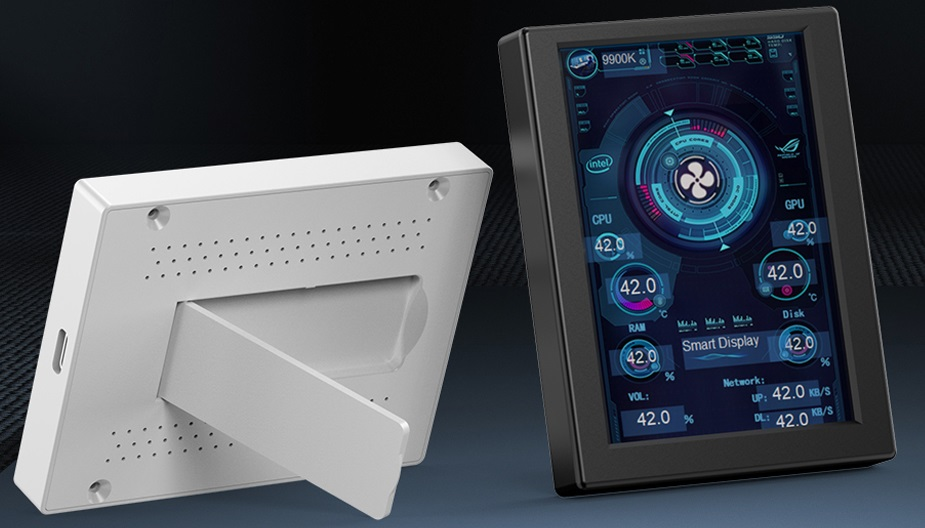
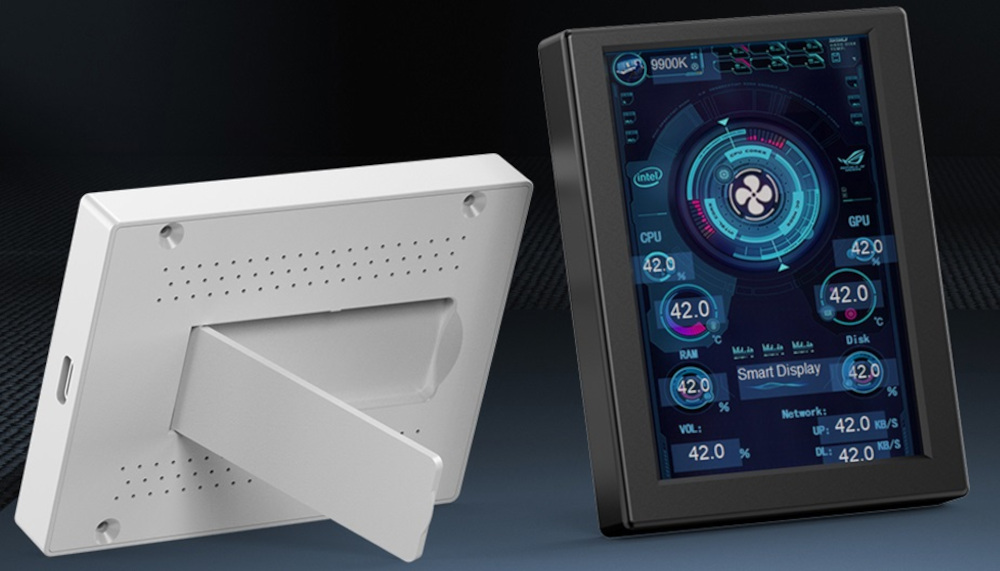
Fix README picture ratio

diff --git a/README.md b/README.md
@@ -18,10 +18,10 @@ Supported operating systems : macOS, Windows, Linux (incl. Raspberry Pi), basica
 
 ### Supported smart screens models:
 
-| Turing Smart Screen 3.5"                             | XuanFang 3.5"                                     | Turing Smart Screen 5"                              |
-|------------------------------------------------------|---------------------------------------------------|-----------------------------------------------------|
-| <img src="res/docs/turing.webp" height="250" />      | <img src="res/docs/xuanfang.webp" height="250" /> | <img src="res/docs/turing5inch.png" height="250" /> |
-| also improperly called "revision A" by the resellers | revision B & flagship (with backplate & RGB LEDs) | basic support (no video or storage for now)         |
+| Turing Smart Screen 3.5"                             | XuanFang 3.5"                                     | Turing Smart Screen 5"                      |
+|------------------------------------------------------|---------------------------------------------------|---------------------------------------------|
+| <img src="res/docs/turing.webp"/>                    | <img src="res/docs/xuanfang.webp"/>               | <img src="res/docs/turing5inch.png"/>       |
+| also improperly called "revision A" by the resellers | revision B & flagship (with backplate & RGB LEDs) | basic support (no video or storage for now) |
 
 ### [> What is my smart screen model?](https://github.com/mathoudebine/turing-smart-screen-python/wiki/Hardware-revisions)  
 
@@ -32,15 +32,15 @@ If you haven't received your screen yet but want to start developing your theme 
 
 ### Not supported yet or not tested smart screen models:
 
-| _Turing Smart Screen 8.8"_                          | _Turing Smart Screen 2.1"_                           | _[(Fuldho?) 3.5" IPS Screen](https://aliexpress.com/item/1005005632018367.html)_                                          |
-|-----------------------------------------------------|------------------------------------------------------|---------------------------------------------------------------------------------------------------------------------------|
-| <img src="res/docs/turing8inch.jpg" height="150" /> | <img src="res/docs/turing2inch.webp" height="150" /> | <img src="res/docs/fuldho_3.5.jpg" height="150" />                                                                        |
-| Not tested, may use the same protocol as 5"         | Not tested, may use the same protocol as 5"          | Not supported, managed with [proprietary Windows software `SmartMonitor.exe`](https://smartdisplay.lanzouo.com/b04jvavkb) |
+| _Turing Smart Screen 8.8"_                  | _Turing Smart Screen 2.1"_                  | _[(Fuldho?) 3.5" IPS Screen](https://aliexpress.com/item/1005005632018367.html)_                                          |
+|---------------------------------------------|---------------------------------------------|---------------------------------------------------------------------------------------------------------------------------|
+| <img src="res/docs/turing8inch.jpg"/>       | <img src="res/docs/turing2inch.webp"/>      | <img src="res/docs/fuldho_3.5.jpg"/>                                                                                      |
+| Not tested, may use the same protocol as 5" | Not tested, may use the same protocol as 5" | Not supported, managed with [proprietary Windows software `SmartMonitor.exe`](https://smartdisplay.lanzouo.com/b04jvavkb) |
 
-| _[SmartCool Lcd](https://aliexpress.com/item/1005005443609423.html) / [GeekTeches AD35](https://aliexpress.com/item/1005004858688084.html) / AIDA64 / AX206_                               | _[(Unknown manufacturer) UsbPCMonitor 3.5" / 5"](https://aliexpress.com/item/1005003931363455.html)_                                                                                          |
-|--------------------------------------------------------------------------------------------------------------------------------------------------------------------------------------------|-----------------------------------------------------------------------------------------------------------------------------------------------------------------------------------------------|
-| <img src="res/docs/ax206.jpg" height="150" /> <img src="res/docs/geekteches_ad35.jpg" height="150" /> <img src="res/docs/smartcool_lcd.webp" height="150" />                               | <img src="res/docs/UsbPCMonitor.jpg" height="150" />                                                                                                                                          |
-| Not supported. Produced by multiple manufacturers, all use the same [Appotech AX206 hacked photo frame firmware](https://github.com/dreamlayers/dpf-ax). Supported by AIDA64 and lcd4linux | Not tested. Visually identical to Turing 3.5" / 5" but managed by [proprietary Windows software `UsbPCMonitor.exe`](https://www.adrive.com/public/rpZfpm/0128200%20USBPCMonitorENG_2_1_4.rar) |
+| _[SmartCool Lcd](https://aliexpress.com/item/1005005443609423.html) / [GeekTeches AD35](https://aliexpress.com/item/1005004858688084.html) / AIDA64 / AX206_                                     | _[(Unknown manufacturer) UsbPCMonitor 3.5" / 5"](https://aliexpress.com/item/1005003931363455.html)_                                                                                          |
+|--------------------------------------------------------------------------------------------------------------------------------------------------------------------------------------------------|-----------------------------------------------------------------------------------------------------------------------------------------------------------------------------------------------|
+| <img src="res/docs/ax206.jpg" width="30%" height="30%" /> <img src="res/docs/geekteches_ad35.jpg" width="30%" height="30%" /> <img src="res/docs/smartcool_lcd.webp" width="30%" height="30%" /> | <img src="res/docs/UsbPCMonitor.jpg"/>                                                                                                                                                        |
+| Not supported. Produced by multiple manufacturers, all use the same [Appotech AX206 hacked photo frame firmware](https://github.com/dreamlayers/dpf-ax). Supported by AIDA64 and lcd4linux       | Not tested. Visually identical to Turing 3.5" / 5" but managed by [proprietary Windows software `UsbPCMonitor.exe`](https://www.adrive.com/public/rpZfpm/0128200%20USBPCMonitorENG_2_1_4.rar) |
 
 ## How to start
 
